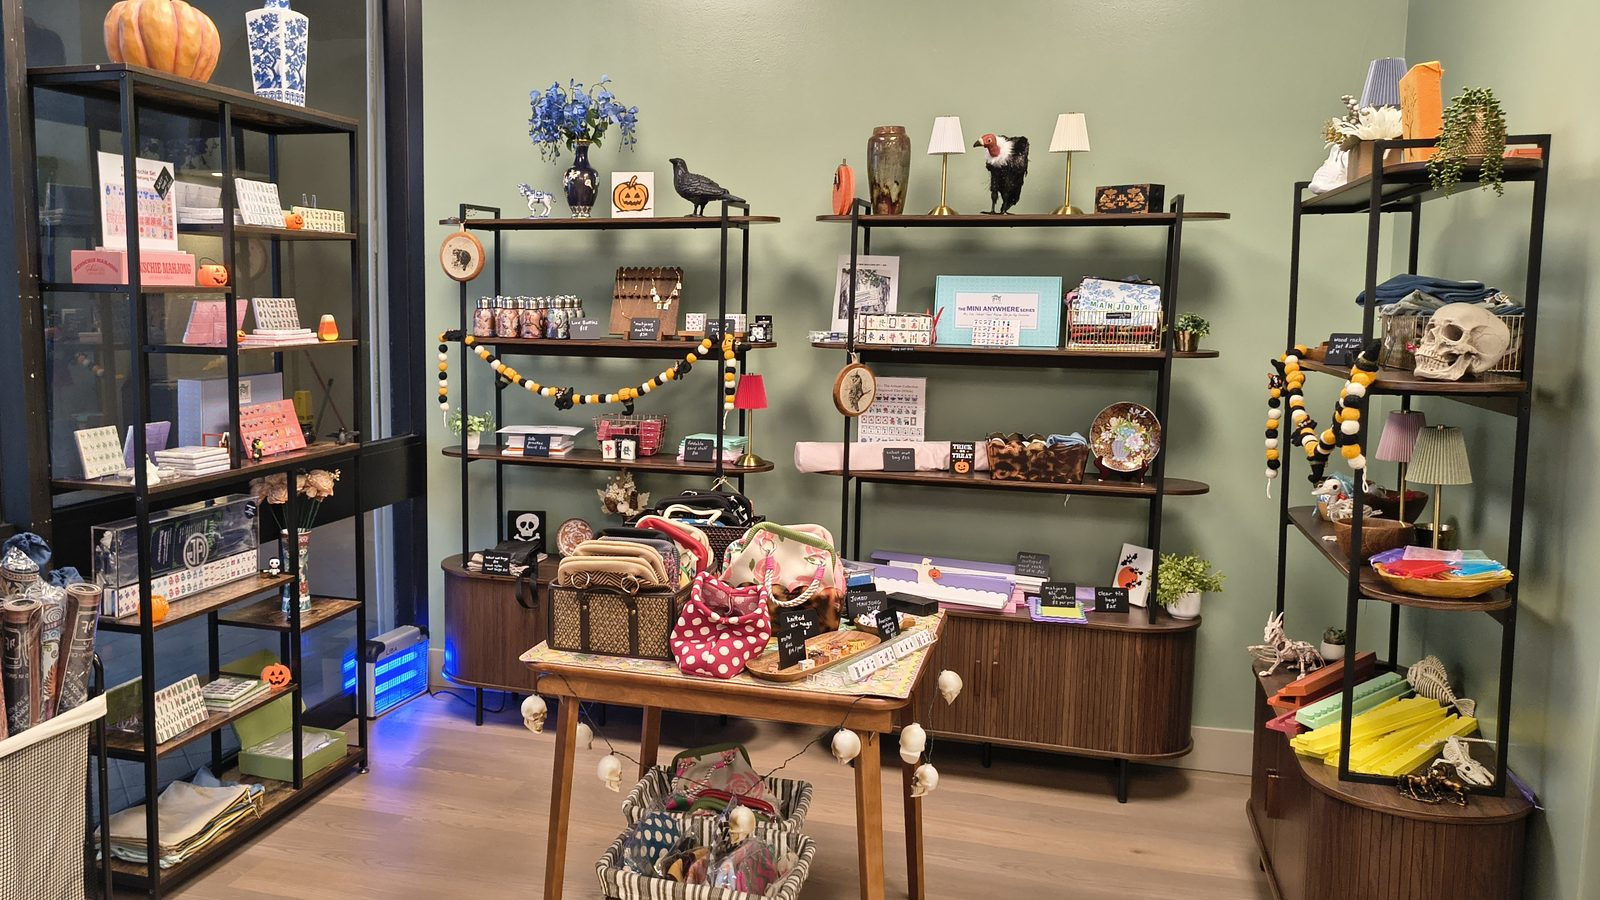
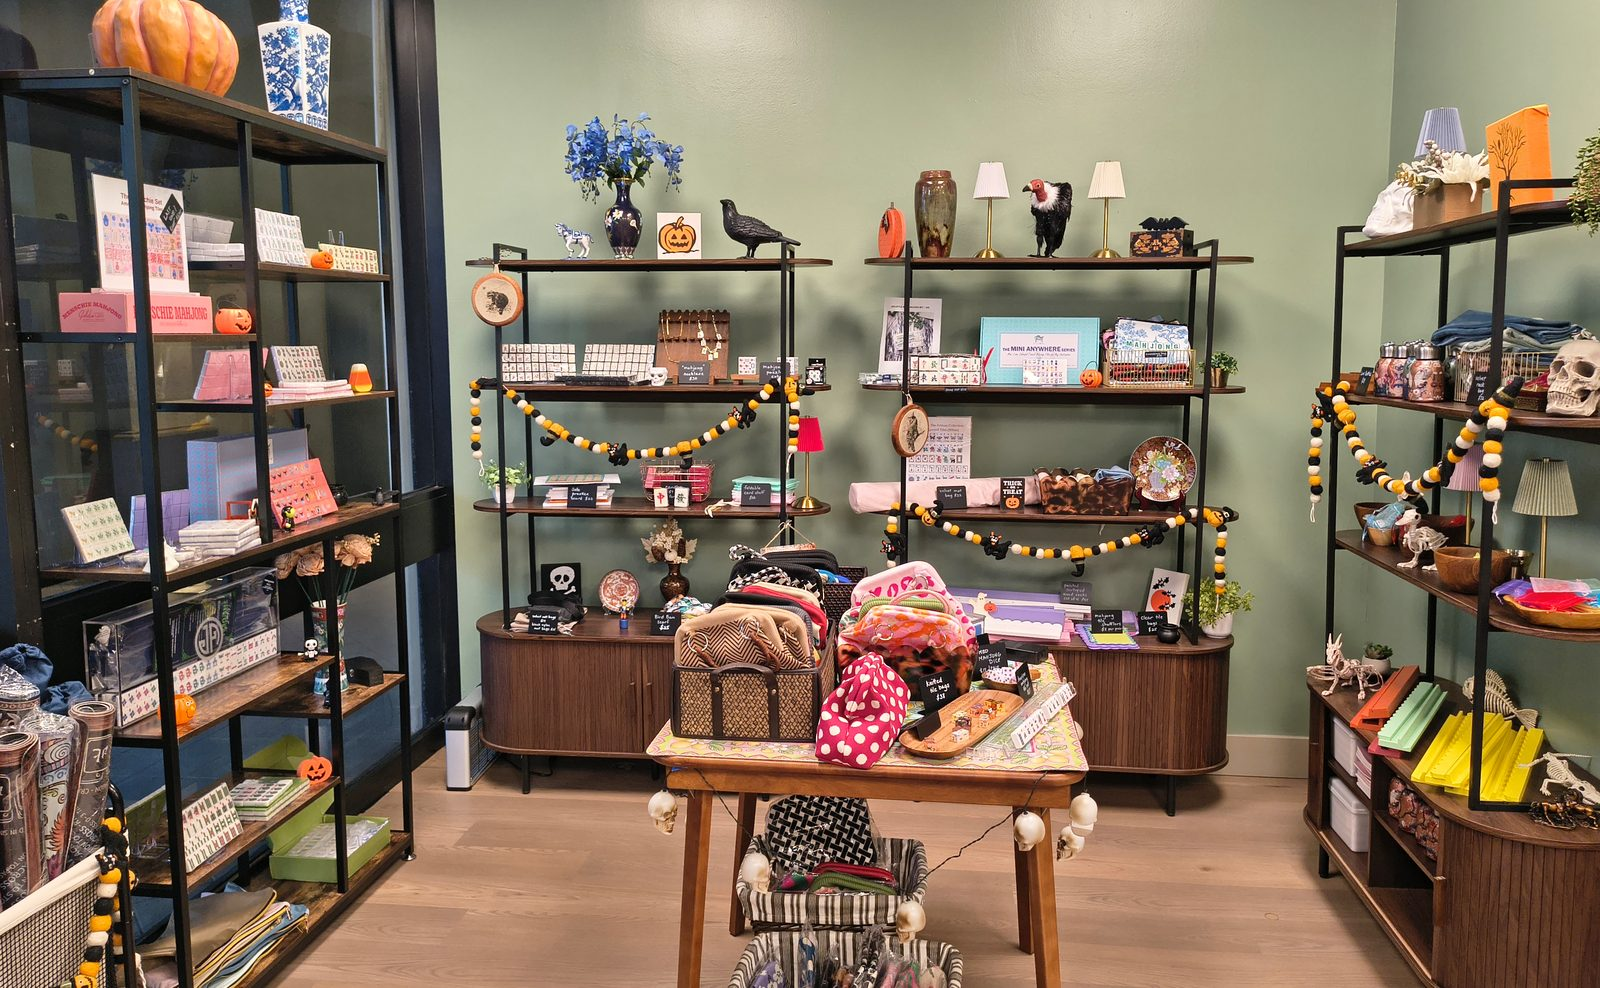
Swap in new boutique photo
Claude-Session: https://claude.ai/code/session_0171ffGBcgXkijuoB58m4dy4

diff --git a/index.html b/index.html
@@ -320,7 +320,7 @@ dialog.lightbox .close{background:var(--cream);color:var(--charcoal);border:0;bo
 
 /* shop */
 .shop{display:grid;grid-template-columns:1fr 1fr;gap:40px;align-items:center}
-.shop-photo{width:100%;height:auto;aspect-ratio:16/9;object-fit:cover;border-radius:18px;border:3px solid var(--charcoal);display:block}
+.shop-photo{width:100%;height:auto;border-radius:18px;border:3px solid var(--charcoal);display:block}
 .shop>*{min-width:0}
 .shop.solo{grid-template-columns:minmax(0,1fr);max-width:960px}
 .shop h2{font-size:clamp(1.9rem,3.4vw,2.6rem)}
@@ -692,7 +692,7 @@ footer.site .brand p span{display:block;font-family:var(--body);font-weight:400;
         </div>
         <p class="also">Also: <a href="https://shop.birdbamclub.com" target="_blank" rel="noopener">Bird Bam Shop</a> · <a href="https://mahjong-mats.com" target="_blank" rel="noopener">Custom Mahjong Mats</a> · <a href="https://checkout.yourgift.cards/29982598-332b-41a9-a807-b48d6b77d2b9" target="_blank" rel="noopener">Gift Certificates</a></p>
       </div>
-      <img class="shop-photo" src="images/boutique.jpg" alt="The Bird Bam boutique, with shelves of mahjong tile sets, racks, mats, bags, and gifts" width="1600" height="900" loading="lazy">
+      <img class="shop-photo" src="images/boutique.jpg?v=2" alt="The Bird Bam boutique, with shelves of mahjong tile sets, racks, mats, bags, and gifts" width="1600" height="988" loading="lazy">
     </div>
   </section>
 
